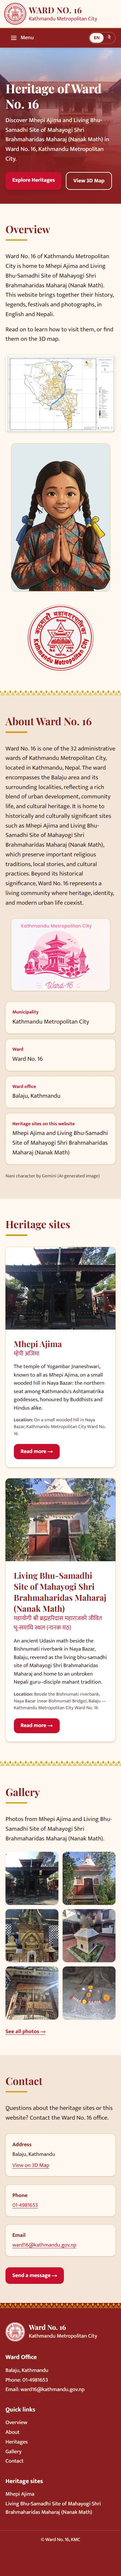
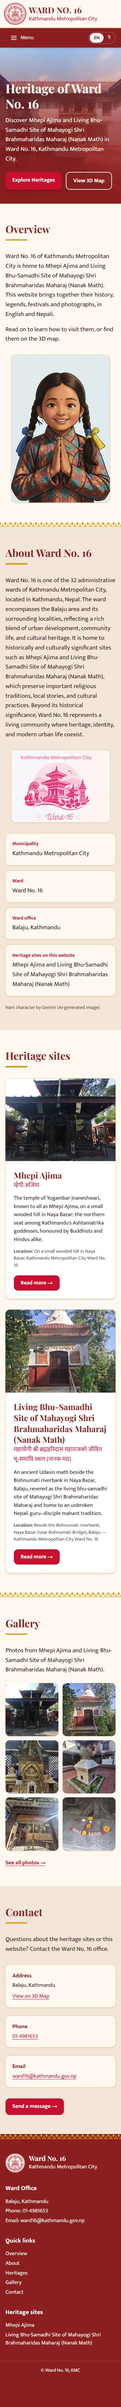
Keep the heritage list descriptions left-aligned until 1280 px
Their column beside the photo is narrow, which gave up to 7.3x word gaps at
1024 px. Checks (90/90), screenshots and the gap list now cover 375, 768,
1024, 1280 and 1440 px.

diff --git a/src/app/globals.css b/src/app/globals.css
@@ -317,7 +317,6 @@
 @media (width >= 64rem) {
   .justified,
   .heritage-prose > p,
-  .heritage-prose .item-desc,
   .map-detail-prose > p {
     text-align: justify;
     text-justify: inter-word;
@@ -325,8 +324,19 @@
   }
   :lang(en) .justified,
   :lang(en) .heritage-prose > p,
-  :lang(en) .heritage-prose .item-desc,
   :lang(en) .map-detail-prose > p {
+    hyphens: auto;
+  }
+}
+
+/* The heritage list descriptions sit beside a photo in a narrower column, so they wait until 1280 px (xl). */
+@media (width >= 80rem) {
+  .heritage-prose .item-desc {
+    text-align: justify;
+    text-justify: inter-word;
+    text-align-last: start;
+  }
+  :lang(en) .heritage-prose .item-desc {
     hyphens: auto;
   }
 }

diff --git a/docs/screenshots/justify/README.md b/docs/screenshots/justify/README.md
@@ -2,18 +2,21 @@
 
 Captured on 17 Nov 2026 in Microsoft Edge (headless) from the strict `npm run build`, branch `feat/justify-text`. The floating buttons and the sticky bar are hidden so they don't cover the text.
 
-**Chosen: version B, starting at 1024 px** (Tailwind's `lg` breakpoint). Running paragraphs are justified from 1024 px. Phones and tablets (375 and 768 px) stay left-aligned.
+**Chosen: version B, starting at 1024 px** (Tailwind's `lg` breakpoint). Running paragraphs are justified from 1024 px. Phones and tablets (375 and 768 px) stay left-aligned. The heritage list descriptions next to their photos sit in a narrower column, so they wait until **1280 px** (`xl`).
 
 The switch is one line in `src/app/globals.css`, just under the comment "ONE SETTING":
-- `@media (width >= 64rem) {` is live: justified from 1024 px.
+- `@media (width >= 64rem) {` is live: running text is justified from 1024 px.
 - `@media all {` would justify at every width (version A, not chosen).
+
+The list descriptions have their own block below it: `@media (width >= 80rem)`.
 
 | File | Width |
 |---|---|
 | `<page>-<lang>-375.jpg` | Phone: left-aligned |
 | `<page>-<lang>-768.jpg` | Tablet: left-aligned |
-| `<page>-<lang>-1024.jpg` | Small laptop: justified |
-| `<page>-<lang>-1440.jpg` | Desktop: justified |
+| `<page>-<lang>-1024.jpg` | Small laptop: running text justified, list descriptions left-aligned |
+| `<page>-<lang>-1280.jpg` | Laptop: all justified |
+| `<page>-<lang>-1440.jpg` | Desktop: all justified |
 
 Pages: `home`, `nanak-math`, `mhepi-ajima`. Languages: `en`, `ne`.
 
@@ -28,8 +31,8 @@ The last line of each paragraph stays left-aligned. Headings, lists, captions, b
 
 ## Browser checks
 
-72 of 72 checks pass, EN and NE, at 375, 768, 1024 and 1440 px, on the three pages. They check that:
-- paragraphs are left-aligned below 1024 px and justified from 1024 px;
+90 of 90 checks pass, EN and NE, at 375, 768, 1024, 1280 and 1440 px, on the three pages. They check that:
+- running text is justified from 1024 px and the list descriptions from 1280 px, left-aligned below that;
 - the last line stays left;
 - English hyphenates and Nepali doesn't;
 - headings, lists, nav, footer, buttons and captions are never justified.
@@ -40,37 +43,32 @@ The last line of each paragraph stays left-aligned. Headings, lists, captions, b
 
 ### 1024 px
 
-The largest gaps are in the heritage list descriptions. Next to their photos, those columns are only about 60% of the text width:
-- EN Nanak Math, "Image of Sankatmochan Siddha Hanuman at the foot of the peepal…" (list item): **7.3×**
-- EN Nanak Math, "The Nandeshwar Mahadev temple, Shivalaya and Nandi statue…" (list item): **5.4×**
-- NE Nanak Math, "झिँगटीको छाना भएका परम्परागत दुई तले भवनहरूले घेरिएको मठको चोक…" (list item): **4.1×**
-- EN Nanak Math, "Courtyard of the math enclosed by traditional two-storey buildings…" (list item): 3.6×
-
-Running paragraphs:
+Running text only; the list descriptions are left-aligned at this width, so their earlier 3.6–7.3× gaps are gone.
 - EN Nanak Math, "In VS 1450 Mahayogi Shri Brahmaharidas Ji Maharaj came to the…": **4.0×**
 - NE Nanak Math, "यस मठमा प्राचीनकालदेखि नै नेपाली गुरु शिष्य परम्पराका…": 3.3×
 - NE Nanak Math, "विष्णु पञ्चायतन देवता र ग्रन्थहरूको पूजा, पाठ…": 3.1×
 - EN Nanak Math, "According to the math, it has existed since ancient times…": 3.0×
 - NE Nanak Math, "साधुसन्तको तपस्थलीका रूपमा प्राचीनकालदेखि रहिआएको…": 2.9×
-- EN Nanak Math: "The guru–disciple tradition…", "A maharaj who lives here performing havan…" (list item), "The living bhu-samadhi temple…" (list item), "The math is run and managed…" (2.6–2.8×)
 - EN home, About ("Ward No. 16 is one of the 32 administrative wards…"): 2.8×
+- EN Nanak Math, "The guru–disciple tradition has come down from Lord Shri Ram…": 2.8×
 - NE Mhepi Ajima, "मन्दिर सानो वनयुक्त थुम्को माथि छ…": 2.8×
 - EN Mhepi Ajima, "No historical documents about the temple…": 2.7×
+- EN Nanak Math, "The math is run and managed by its mahant…": 2.6×
+- EN Nanak Math, "Puja and readings for the Vishnu Panchayatan deities…": 2.5×
 - EN Mhepi Ajima, "The temple bhajan…": 2.5×
 - NE Mhepi Ajima, "यहाँ बौद्ध र हिन्दु दुवै धर्मावलम्बी…": 2.5×
-- EN Nanak Math, "Puja and readings for the Vishnu Panchayatan deities…": 2.5×
 
-### 1440 px
+### 1280 px
 
 - EN Nanak Math, "The living bhu-samadhi temple…" (list item): 2.8×
 - EN Nanak Math, "Paddy, wheat, maize, greens and vegetables…": 2.5×
 
-No Nepali paragraph reaches 2.5× at 1440 px.
+### 1440 px
+
+Same as 1280 px: "The living bhu-samadhi temple…" (list item) at 2.8× and "Paddy, wheat, maize…" at 2.5×. No Nepali paragraph reaches 2.5× at 1280 or 1440 px.
 
 ### 375 and 768 px
 
 None: the text is left-aligned at these widths.
 
-For comparison, the earlier run with justifying from 768 px measured up to 4.9× at 768 px. Justifying at every width measured up to 10× on phones.
-
-**If the list gaps at 1024 px bother you:** one more line in the CSS could keep the heritage list descriptions (`.heritage-prose .item-desc`) left-aligned until 1280 px. It isn't done here.
+For comparison, earlier runs measured up to 4.9× when justifying from 768 px, and up to 10× when justifying at every width.

diff --git a/CLAUDE.md b/CLAUDE.md
@@ -30,7 +30,7 @@
 - Links to the home page use prefetch={false}, so other pages do not preload the home hero image.
 - Pin new npm packages to a release at least two weeks old (--save-exact).
 - Chatbot: tap-only (topic → question → answer), no typing and no search library. Topics and answers live only in content/faq.json (EN + NE). Topics are generated: "Visiting {site}" and "About {site}" per visible site (`topic: "visit" | "about"` + `site`), then the fixed topics; `site` drops a draft site's answers; `topic: null` = related-only. `priority` orders questions within a topic; `suggestions` are the opening quick questions; `directions: true` adds a "View on 3D Map" link for the site (with the approximate note when flagged). Questions are short and plain ("How do I get there?"). Never add a name or fact without a source (e.g. "Siddheshwar Mahadev" is waiting for one). Answers may use {sites} {address} {phone} {email} {team}; links are language-less paths whose #anchors are checked at build. Every option is a real <button>, with "My question isn't here" last in every list (its reply links the ward phone and email, then offers only "← Back to topics"). The chat must make no network requests: no prefetch on its links.
-- Justified text: only running paragraphs (`.justified`, `.heritage-prose > p`, `.heritage-prose .item-desc`, `.map-detail-prose > p`), last line left, English `hyphens: auto`. Justified only from 1024 px (lg); phones and tablets stay left-aligned. The one switch is the `@media` line under "ONE SETTING" in globals.css: `(width >= 64rem)` (chosen), `all` = justified everywhere.
+- Justified text: only running paragraphs (`.justified`, `.heritage-prose > p`, `.heritage-prose .item-desc`, `.map-detail-prose > p`), last line left, English `hyphens: auto`. Justified only from 1024 px (lg); phones and tablets stay left-aligned. The heritage list descriptions (`.item-desc`, beside photos) wait until 1280 px (xl) in their own block. The one switch is the `@media` line under "ONE SETTING" in globals.css: `(width >= 64rem)` (chosen), `all` = justified everywhere.
 - useEffect bodies must be blocks, never `() => el.method()`: some browsers return Promises from DOM methods (e.g. scrollIntoView) and React then crashes.
 - Floating buttons: Nani/chatbot bottom-RIGHT, 3D Map bottom-LEFT (swapped from the sketch on 14 Nov 2026). Side offsets are `max(gap, env(safe-area-inset-…))`; the chat panel opens above Nani, growing up and to the left.
 - Nani (chatbot guide): the floating button is the 56 px round face on every page; only hovering over it with a mouse shows the big half-body cut-out (nani-figure-*.webp, 130 px below md / 260 px from md, gentle CSS sway, off under reduced motion) and her speech bubble (not while the chat is open). Touch screens never show or download the big figure; the chat header and message avatars use the round face via <NaniAvatar>. All are built by optimize-images. Avatars beside messages are static with alt="" (the sr-only "Nani:" prefix names her).
